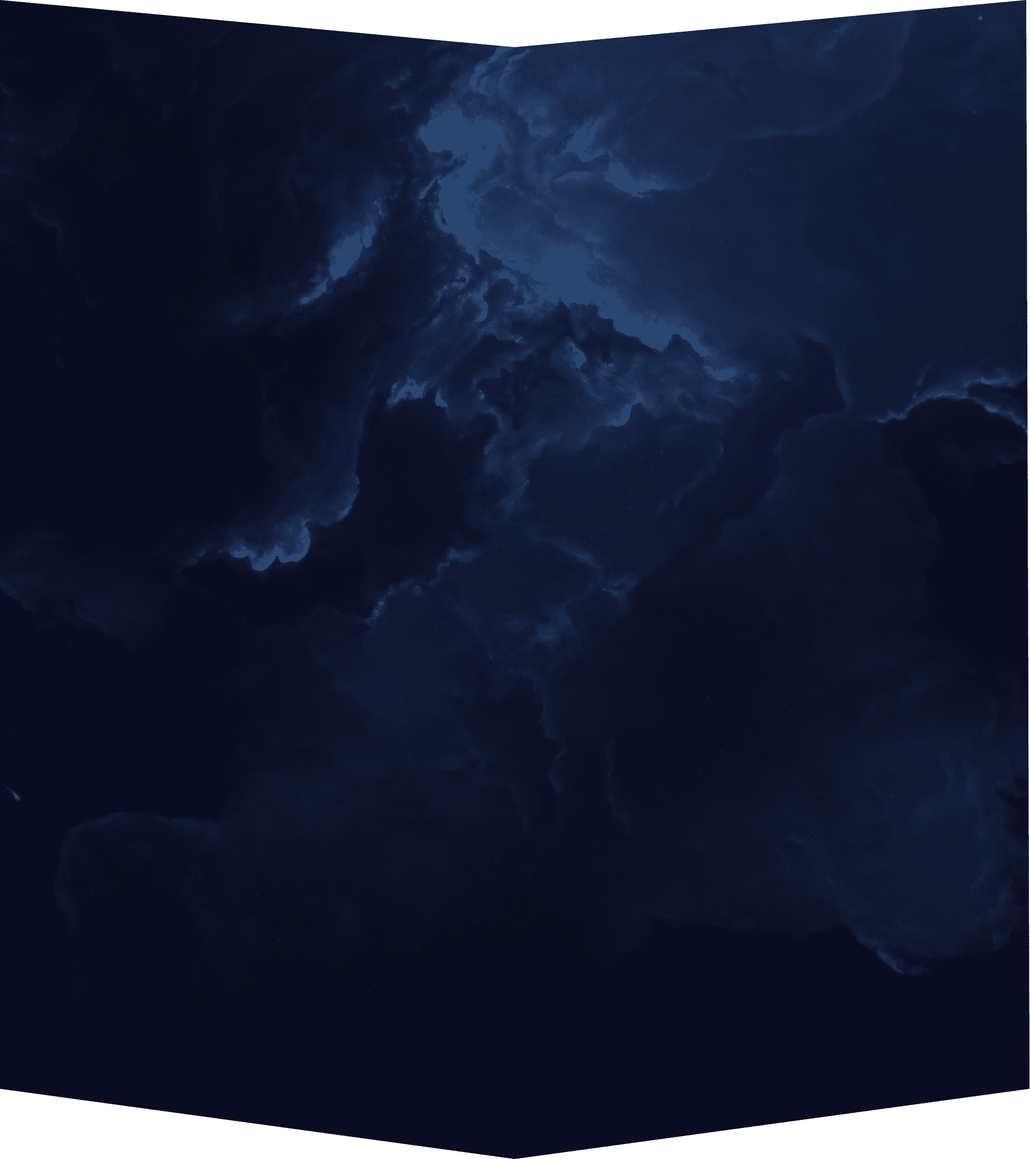
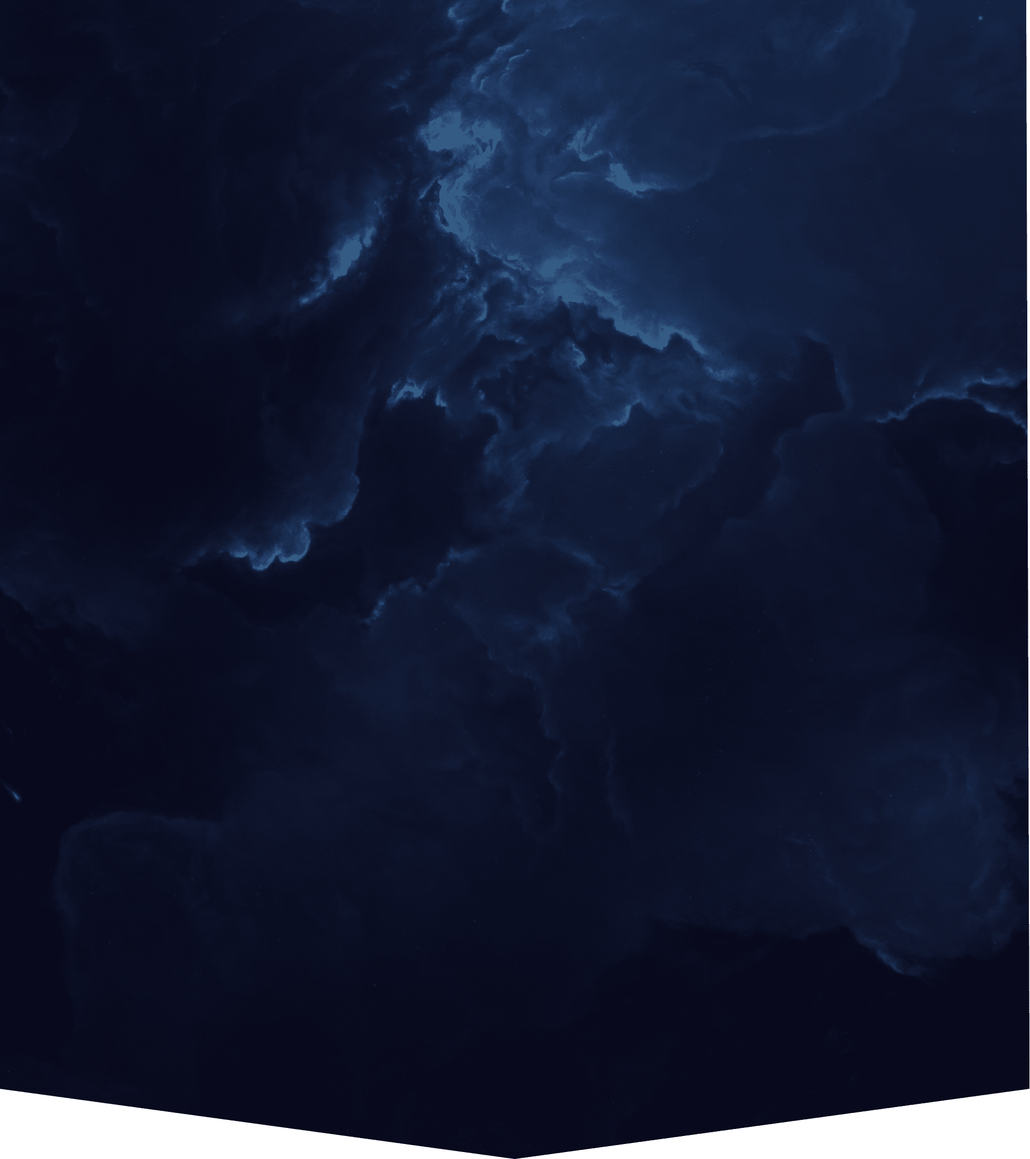
Responsive about us

diff --git a/src/css/about.css b/src/css/about.css
@@ -28,12 +28,11 @@
     width: 50vw;
     --ratio: calc(905 / 1920);
     height: calc(100vw * var(--ratio));
-    /* background: rgba(0,0,0,1); */
     position: relative;
-    overflow: visible;
+    overflow: hidden;
     display: inline-block;
     vertical-align: middle;
-    }
+}
 .about-left-image{
     
    /*  border: 3px solid green; */
@@ -147,8 +146,9 @@
 @media(max-width: 374px){
     /* Full document */
     .about-div{
-        --ratio: calc(573 / 361);
+        --ratio: calc(573 / 360);
         background:  url("../resources/about/about_mobile_bkg.png");
+        background-size: cover;
     }
     .about-left{
         width: 100vw;
@@ -161,6 +161,8 @@
     }
     .about-right {
         width: 100vw;
+        --ratio: calc(661 / 566);
+        height: calc(100vw * var(--ratio));
     }
     .about-right-section1{
         width: 80vw;
@@ -211,5 +213,205 @@
         background: url("../resources/about/img_video.png");
         background-size: contain;
         top: 30vw;
+    }
+}
+
+@media(min-width: 375px) and (max-width: 424px){
+    /* Full document */
+    .about-div{
+        --ratio: calc(573 / 360);
+        background:  url("../resources/about/about_mobile_bkg.png");
+        background-size: cover;
+    }
+    .about-left{
+        width: 100vw;
+    }
+    .about-left-image{
+        width: 50vw;
+        --ratio: calc(661 / 566);
+        height: calc(50vw * var(--ratio));
+        top: calc(30vw * var(--ratio));
+    }
+    .about-right {
+        width: 100vw;
+        --ratio: calc(661 / 566);
+        height: calc(100vw * var(--ratio));
+    }
+    .about-right-section1{
+        width: 80vw;
+        position: relative;
+        top: 32vw;
+        left: 10vw;
+    }
+    .about-text {
+        width: 100%;
+        font-size: 3.75vw;
+    }
+    .about-text-bold {
+        font-size: 3.75vw;
+    }
+    .div-buttons{
+        text-align: right;
+    }
+    .btn-about-whitepaper{
+        width: 40%;
+        height: 10vw;
+        margin-top: 1vw;
+        cursor: pointer;
+        /* border: 1px solid green; */
+        
+    }
+    .btn-about-deck{
+        background: url("../resources/about/btn_about_deck.png");
+        background-repeat: no-repeat;
+        background-size: contain;
+        position: relative;
+        display: inline-block;
+        width: 30%;
+        height: 10vw;
+        margin-top: 1vw;
+        cursor: pointer;
+    }
+    .btn-about-wt{
+        width: 44%;
+        height: 6vh;
+        top: 80vw;
+        right: 0vw;
+        left: auto;
+    }
+    .video {
+        width: 80vw;
+        --ratio: calc(161 / 265);
+        height: calc(80vw * var(--ratio));
+        background: url("../resources/about/img_video.png");
+        background-size: contain;
+        top: 30vw;
+    }
+}
+
+@media(min-width: 425px) and (max-width: 767px){
+    /* Full document */
+    .about-div{
+        --ratio: calc(573 / 360);
+        background:  url("../resources/about/about_mobile_bkg.png");
+        background-size: cover;
+    }
+    .about-left{
+        width: 100vw;
+    }
+    .about-left-image{
+        width: 45vw;
+        --ratio: calc(661 / 566);
+        height: calc(45vw * var(--ratio));
+        top: calc(27vw * var(--ratio));
+    }
+    .about-right {
+        width: 100vw;
+        --ratio: calc(661 / 566);
+        height: calc(100vw * var(--ratio));
+    }
+    .about-right-section1{
+        width: 80vw;
+        position: relative;
+        top: 25vw;
+        left: 10vw;
+    }
+    .about-text {
+        width: 100%;
+        font-size: 3.75vw;
+    }
+    .about-text-bold {
+        font-size: 3.75vw;
+    }
+    .div-buttons{
+        text-align: right;
+    }
+    .btn-about-whitepaper{
+        width: 40%;
+        height: 10vw;
+        margin-top: 1vw;
+        cursor: pointer;
+        /* border: 1px solid green; */
+        
+    }
+    .btn-about-deck{
+        background: url("../resources/about/btn_about_deck.png");
+        background-repeat: no-repeat;
+        background-size: contain;
+        position: relative;
+        display: inline-block;
+        width: 30%;
+        height: 10vw;
+        margin-top: 1vw;
+        cursor: pointer;
+    }
+    .btn-about-wt{
+        width: 44%;
+        height: 6vh;
+        top: 80vw;
+        right: 0vw;
+        left: auto;
+    }
+    .video {
+        width: 80vw;
+        --ratio: calc(161 / 265);
+        height: calc(80vw * var(--ratio));
+        background: url("../resources/about/img_video.png");
+        background-size: contain;
+        top: 30vw;
+    }
+}
+@media(min-width: 768px) and (max-width: 1023px){
+    .about-div{
+        width: 100vw;
+        --ratio: calc(566 / 821);
+        height: calc(100vw * var(--ratio));
+        background:  url("../resources/about/about_tablet_bkg.png");
+        background-size: cover;
+    }
+    .about-left{
+        width: 50vw;
+        --ratio: calc(661 / 566);
+        height: calc(50vw * var(--ratio));
+    }
+    .about-left-image{
+        width: 40vw;
+        --ratio: calc(661 / 566);
+        height: calc(40vw * var(--ratio));
+        top: 30vw;
+    }
+    .about-right {
+        width: 50vw;
+        --ratio: calc(661 / 566);
+        height: calc(50vw * var(--ratio));
+    }
+    .about-right-section1{
+        width: 40vw;
+        top: 16vw;
+    }
+    .about-text {
+        width: 100%;
+        font-size: 1.9vw;
+    }
+    .about-text-bold {
+        font-size: 1.9vw;
+    }
+    .btn-about-whitepaper{
+        height: 5vw;
+        margin-top: 1vw;
+    }
+    .btn-about-deck{
+        height: 5vw;
+        margin-top: 1vw;
+    }
+    .video {
+        width: 40vw;
+        height: calc(40vw * var(--ratio));
+        top: 16vw;
+    }
+    .btn-about-wt{
+        top: 42vw;
+        left: auto;
+        right: 0vw;
     }
 }

diff --git a/src/sections/nftanvil/nftanvil.js b/src/sections/nftanvil/nftanvil.js
@@ -11,18 +11,18 @@ export default function NFTAnvil()
     return(
         <Container className="BackGround" fluid style={{backgroundImage: `url(${BackGround})`}}>
             <Row className="justify-content-md-center text-center align-items-center">
-                <Col xs={12} sm={12} md={4} lg={4} xl={4} xxl={4}>
+                <Col xs={4} sm={4} md={4} lg={4} xl={4} xxl={4}>
                     <Image className="ships" src={Hammer} alt="left ship"/>
                 </Col>
-                <Col xs={12} sm={12} md={4} lg={4} xl={4} xxl={4}>
+                <Col xs={4} sm={4} md={4} lg={4} xl={4} xxl={4}>
                     <Image id="nftanvil_icon" src={NFTAnvilLogo} alt="NFTAnvil logo"/>
                 </Col>
-                <Col xs={12} sm={12} md={4} lg={4} xl={4} xxl={4}>
+                <Col xs={4} sm={4} md={4} lg={4} xl={4} xxl={4}>
                     <Image className="ships" src={Goblin} alt="right ship"/>
                 </Col>
             </Row>
             <Row className="justify-content-md-center">
-                <Col xs={12} sm={12} md={{ span: 6}} lg={{ span: 3 }} xl={{ span: 3 }} xxl={{ span: 3 }}>
+                <Col xs={4} sm={4} md={{ span: 6}} lg={{ span: 3 }} xl={{ span: 3 }} xxl={{ span: 3 }}>
                     <p className="text-justify">
                         <strong>We've partnered with NFT Anvil to </strong>
                         deliver the ultimate decentralized marketplace and trade your assets on the 
@@ -32,7 +32,7 @@ export default function NFTAnvil()
             </Row>
             <Row className="justify-content-md-center text-center">
                 <Col>
-                <Button href="https://nftanvil.com/" id="nftanvil_btn" style={{backgroundImage: `url(${NFTAnvilLink})`}}/>
+                    <Button href="https://nftanvil.com/" id="nftanvil_btn" style={{backgroundImage: `url(${NFTAnvilLink})`}}/>
                 </Col>
             </Row>
         </Container>

diff --git a/src/sections/about/about.js b/src/sections/about/about.js
@@ -25,14 +25,12 @@ export default function About(props){
                     <div className="div-buttons">
                         <div className="btn-about-deck" onClick={() => {  window.location.href = "https://play.cosmicrafts.com"; } }></div>
                         <div className="btn-about-whitepaper" onClick={() => {  window.open("https://wp.cosmicrafts.com"); } }>
-                            {/* <label className="btn-lbl-about">WHITEPAPER</label> */}
                         </div>
                     </div>
 
                     <div className="video"></div>
 
                     <div className="btn-about-wt" onClick={() => {  window.location.href = "https://play.cosmicrafts.com"; } }>
-                        {/* <label className="btn-lbl-header">WHITEPAPER</label> */}
                     </div>
         
                 </div>

diff --git a/src/css/roadmap.css b/src/css/roadmap.css
@@ -1,13 +1,12 @@
 .roadmap-div{
-    width: 101vw;
+    width: 100%;
     --ratio: calc(2163 / 1922);
-    height: calc(101vw * var(--ratio));
+    height: calc(100vw * var(--ratio));
     background: url("../resources/roadmap/roadmap_background.png");
     background-size: cover;
     margin-bottom: calc(-12vh * var(--ratio));
     position: relative;
     z-index: 1;
-    margin-bottom: -17vh;
 }
 .roadmap-title-div{
     position: absolute;

diff --git a/src/css/dividerTwo.css b/src/css/dividerTwo.css
@@ -60,3 +60,15 @@
   opacity: 1;
   text-align: center;
 }
+
+@media(max-width: 374px){
+  .v19_104 {
+    margin-top: -3vh;
+  }
+}
+
+@media(min-width: 375px) and (max-width: 424px){
+  .v19_104 {
+    margin-top: -3vh;
+  }
+}

diff --git a/src/css/nftanvil.css b/src/css/nftanvil.css
@@ -21,7 +21,7 @@ p{
 
 #nftanvil_icon
 {
-    width: 100%;
+    width: 10vw;
     max-width: 128px;
 }
 
